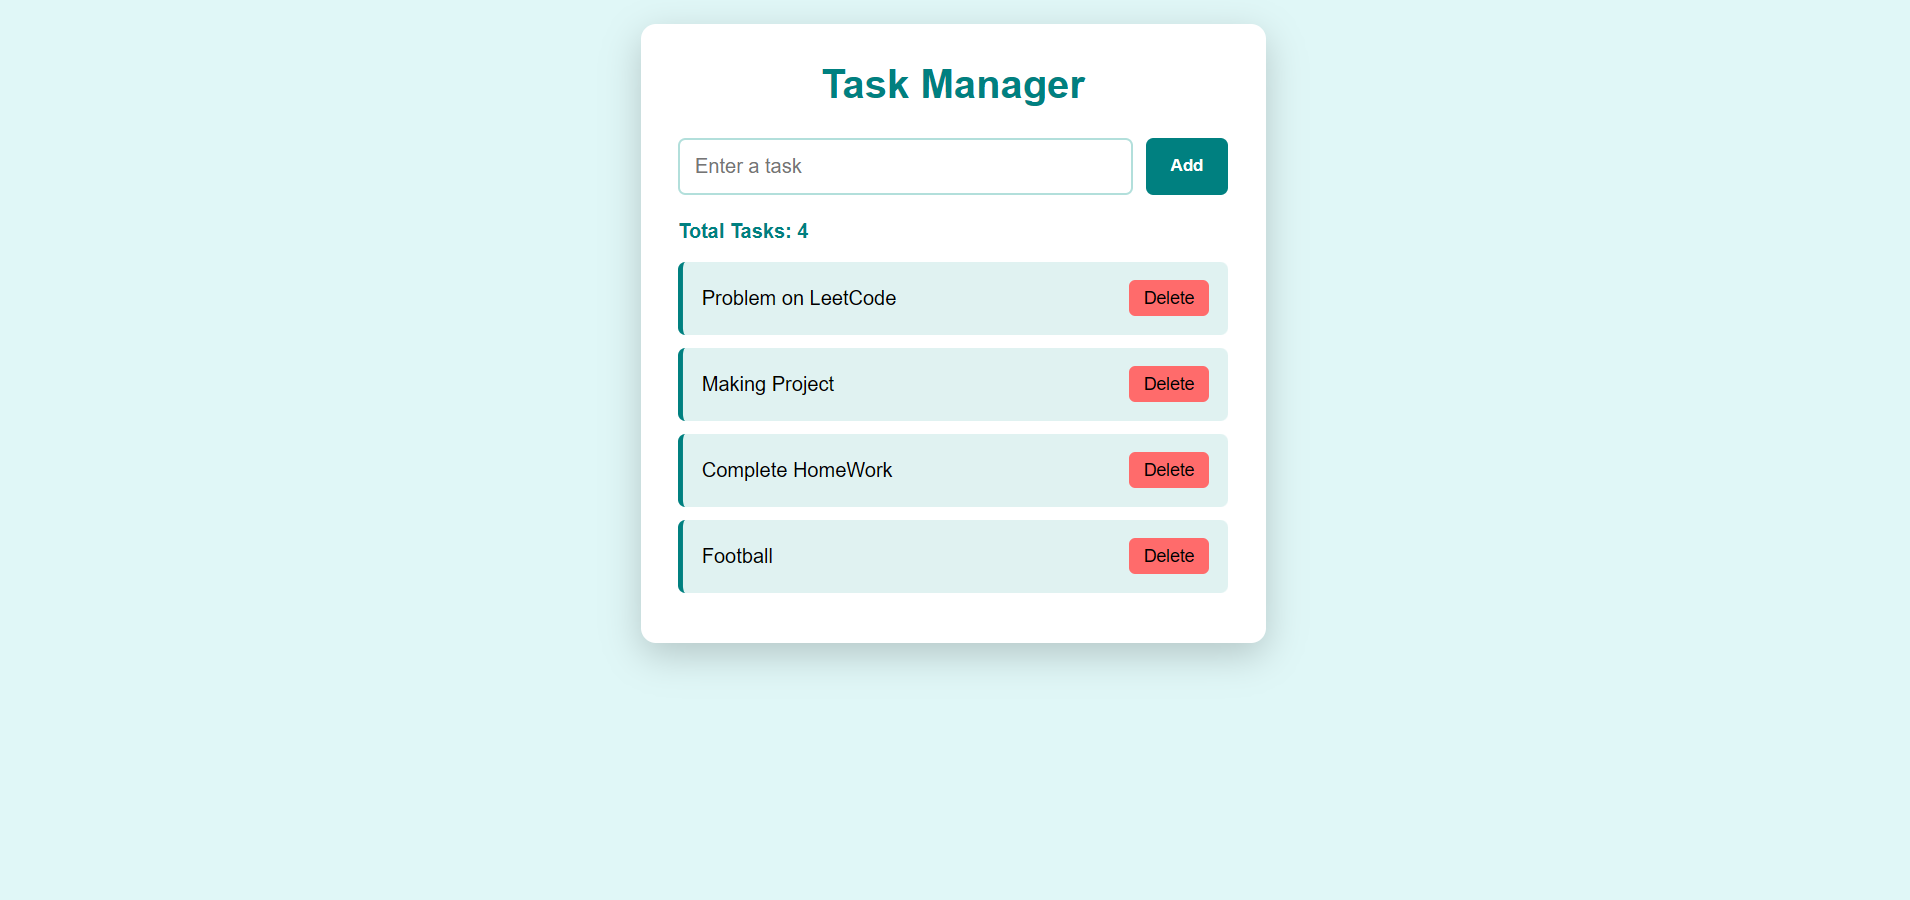
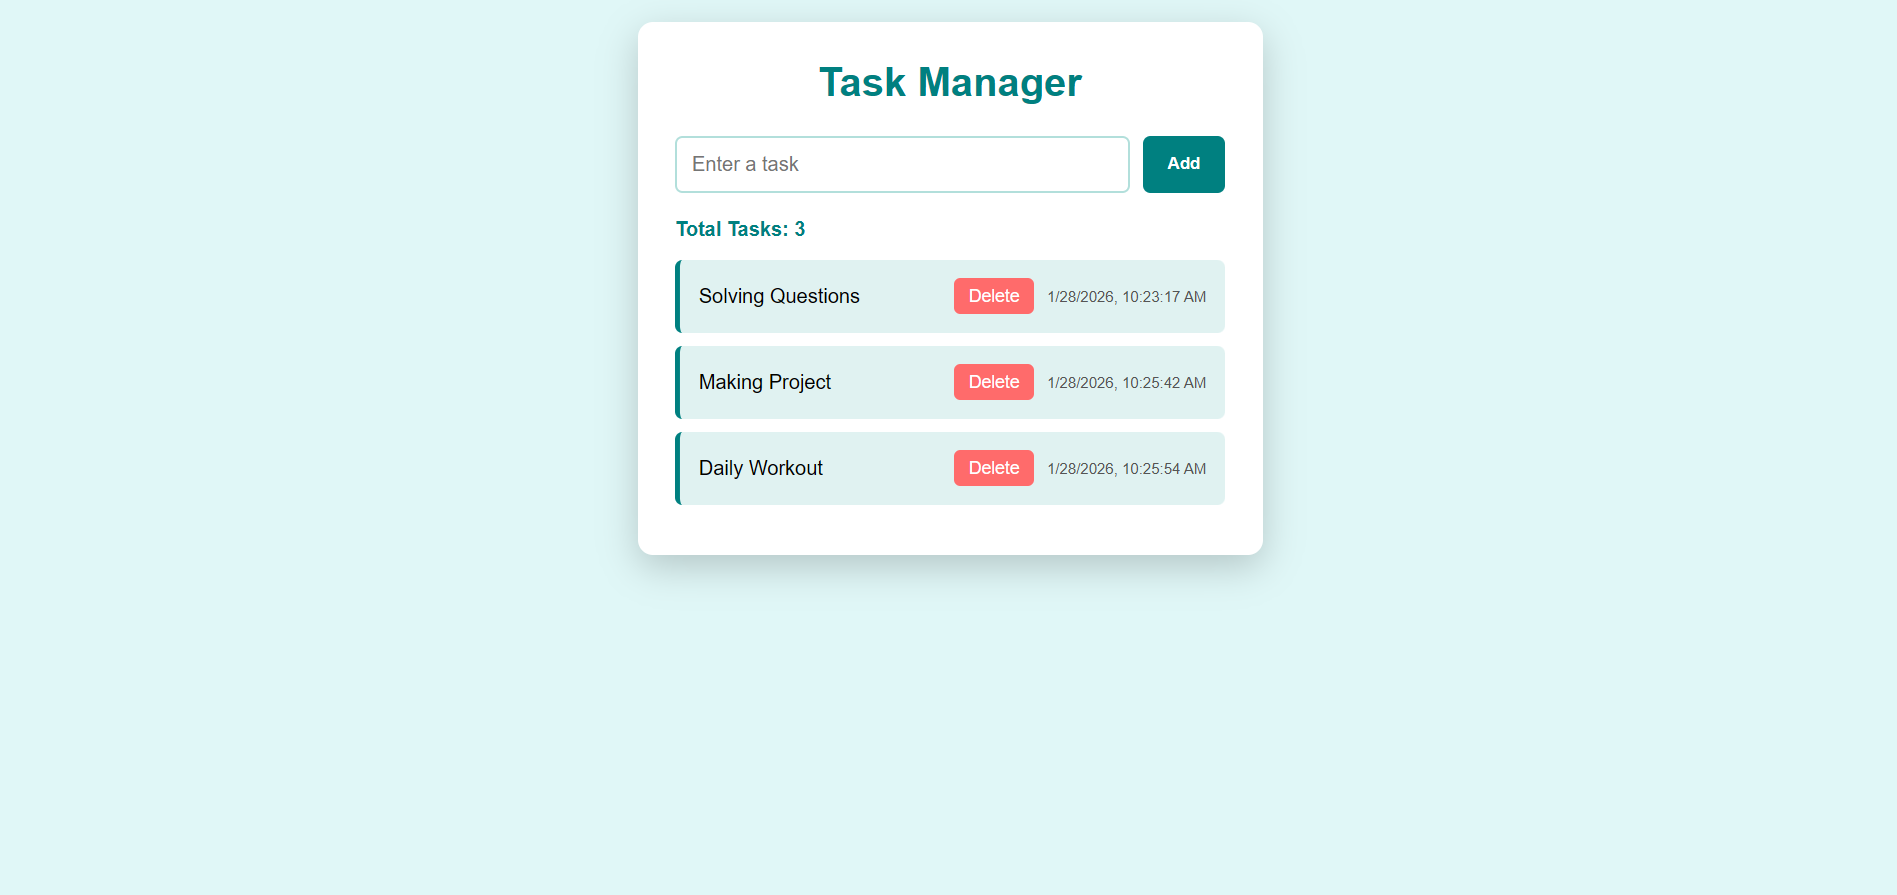
Update

diff --git a/index.html b/index.html
@@ -1,0 +1,341 @@
+<!DOCTYPE html>
+<html lang="en">
+
+<head>
+  <meta charset="UTF-8" />
+  <meta name="viewport" content="width=device-width, initial-scale=1.0" />
+  <title>Anshuman Varma | PEP Projects</title>
+  <link rel="preconnect" href="https://fonts.googleapis.com" />
+  <link rel="preconnect" href="https://fonts.gstatic.com" crossorigin />
+  <link
+    href="https://fonts.googleapis.com/css2?family=Space+Grotesk:wght@300;400;500;600;700&family=DM+Serif+Display&display=swap"
+    rel="stylesheet" />
+  <style>
+    :root {
+      --bg: #f7f2e9;
+      --ink: #1f1b16;
+      --muted: #5a5046;
+      --card: #ffffff;
+      --accent: #e07a5f;
+      --accent-2: #3d405b;
+      --shadow: rgba(31, 27, 22, 0.08);
+    }
+
+    * {
+      box-sizing: border-box;
+    }
+
+    body {
+      margin: 0;
+      font-family: "Space Grotesk", sans-serif;
+      color: var(--ink);
+      background:
+        radial-gradient(circle at 0% 0%, #ffe8cc 0%, transparent 40%),
+        radial-gradient(circle at 100% 100%, #e0e7ff 0%, transparent 40%),
+        var(--bg);
+      background-attachment: fixed;
+      line-height: 1.5;
+    }
+
+    .page {
+      max-width: 1200px;
+      margin: 0 auto;
+      padding: 80px 24px;
+    }
+
+    header {
+      margin-bottom: 60px;
+      text-align: left;
+    }
+
+    .eyebrow {
+      text-transform: uppercase;
+      letter-spacing: 0.3em;
+      font-weight: 700;
+      color: var(--accent);
+      font-size: 11px;
+      margin-bottom: 12px;
+    }
+
+    h1 {
+      font-family: "DM Serif Display", serif;
+      font-size: clamp(40px, 8vw, 72px);
+      margin: 0 0 16px 0;
+      line-height: 1;
+    }
+
+    .sub {
+      font-size: 18px;
+      color: var(--muted);
+      max-width: 550px;
+      font-weight: 400;
+    }
+
+    .grid {
+      display: grid;
+      grid-template-columns: repeat(auto-fill, minmax(280px, 1fr));
+      gap: 32px;
+    }
+
+    .card {
+      background: var(--card);
+      border: 1px solid var(--shadow);
+      border-radius: 24px;
+      overflow: hidden;
+      display: flex;
+      flex-direction: column;
+      transition: all 0.4s cubic-bezier(0.23, 1, 0.32, 1);
+      box-shadow: 0 10px 30px -10px rgba(0, 0, 0, 0.05);
+    }
+
+    .card:hover {
+      transform: translateY(-8px);
+      box-shadow: 0 20px 40px -15px rgba(0, 0, 0, 0.1);
+      border-color: var(--accent);
+    }
+
+    .thumb-wrapper {
+      position: relative;
+      overflow: hidden;
+      aspect-ratio: 16 / 10;
+      background: #eee;
+    }
+
+    .thumb {
+      width: 100%;
+      height: 100%;
+      object-fit: cover;
+      transition: transform 0.6s ease;
+    }
+
+    .card:hover .thumb {
+      transform: scale(1.05);
+    }
+
+    .card-body {
+      padding: 24px;
+      display: flex;
+      flex-direction: column;
+      flex-grow: 1;
+    }
+
+    .title {
+      font-weight: 700;
+      font-size: 20px;
+      margin: 0 0 8px 0;
+    }
+
+    .meta {
+      font-size: 15px;
+      color: var(--muted);
+      margin-bottom: 24px;
+      flex-grow: 1;
+      /* Pushes button to bottom */
+    }
+
+    .link {
+      display: inline-flex;
+      align-items: center;
+      justify-content: center;
+      gap: 10px;
+      padding: 12px 20px;
+      border-radius: 12px;
+      background: var(--accent-2);
+      color: #fff;
+      text-decoration: none;
+      font-weight: 600;
+      font-size: 14px;
+      transition: background 0.3s ease;
+    }
+
+    .link:hover {
+      background: var(--accent);
+    }
+
+    .link svg {
+      transition: transform 0.3s ease;
+    }
+
+    .link:hover svg {
+      transform: translateX(4px);
+    }
+
+    @media (max-width: 640px) {
+      .page {
+        padding: 48px 20px;
+      }
+
+      h1 {
+        font-size: 42px;
+      }
+    }
+  </style>
+</head>
+
+<body>
+
+  <div class="page">
+    <header>
+      <h1>Anshuman Varma</h1>
+      <p class="sub">PEP CLass Project</p>
+    </header>
+    <section class="grid">
+      <article class="card">
+        <div class="thumb-wrapper">
+          <img class="thumb" src="PROJECT1/image.png" alt="Project 1">
+        </div>
+        <div class="card-body">
+          <h2 class="title">Project 1</h2>
+          <a class="link" href="PROJECT1/index.html">View Project <svg width="18" height="18" viewBox="0 0 24 24"
+              fill="none" stroke="currentColor" stroke-width="2.5" stroke-linecap="round" stroke-linejoin="round">
+              <line x1="5" y1="12" x2="19" y2="12"></line>
+              <polyline points="12 5 19 12 12 19"></polyline>
+            </svg></a>
+        </div>
+      </article>
+
+      <article class="card">
+        <div class="thumb-wrapper">
+          <img class="thumb" src="PROJECT2/image.png" alt="Project 2">
+        </div>
+        <div class="card-body">
+          <h2 class="title">Project 2</h2>
+          <a class="link" href="PROJECT2/index.html">View Project <svg width="18" height="18" viewBox="0 0 24 24"
+              fill="none" stroke="currentColor" stroke-width="2.5" stroke-linecap="round" stroke-linejoin="round">
+              <line x1="5" y1="12" x2="19" y2="12"></line>
+              <polyline points="12 5 19 12 12 19"></polyline>
+            </svg></a>
+        </div>
+      </article>
+
+      <article class="card">
+        <div class="thumb-wrapper">
+          <img class="thumb" src="PROJECT3/image.png" alt="Project 3">
+        </div>
+        <div class="card-body">
+          <h2 class="title">Project 3</h2>
+          <a class="link" href="PROJECT3/index.html">View Project <svg width="18" height="18" viewBox="0 0 24 24"
+              fill="none" stroke="currentColor" stroke-width="2.5" stroke-linecap="round" stroke-linejoin="round">
+              <line x1="5" y1="12" x2="19" y2="12"></line>
+              <polyline points="12 5 19 12 12 19"></polyline>
+            </svg></a>
+        </div>
+      </article>
+
+      <article class="card">
+        <div class="thumb-wrapper">
+          <img class="thumb" src="PROJECT4/image.png" alt="Project 4">
+        </div>
+        <div class="card-body">
+          <h2 class="title">Project 4</h2>
+          <a class="link" href="PROJECT4/index.html">View Project <svg width="18" height="18" viewBox="0 0 24 24"
+              fill="none" stroke="currentColor" stroke-width="2.5" stroke-linecap="round" stroke-linejoin="round">
+              <line x1="5" y1="12" x2="19" y2="12"></line>
+              <polyline points="12 5 19 12 12 19"></polyline>
+            </svg></a>
+        </div>
+      </article>
+
+      <article class="card">
+        <div class="thumb-wrapper">
+          <img class="thumb" src="PROJECT5/image.png" alt="Project 5">
+        </div>
+        <div class="card-body">
+          <h2 class="title">Project 5</h2>
+          <a class="link" href="PROJECT5/index.html">View Project <svg width="18" height="18" viewBox="0 0 24 24"
+              fill="none" stroke="currentColor" stroke-width="2.5" stroke-linecap="round" stroke-linejoin="round">
+              <line x1="5" y1="12" x2="19" y2="12"></line>
+              <polyline points="12 5 19 12 12 19"></polyline>
+            </svg></a>
+        </div>
+      </article>
+
+      <article class="card">
+        <div class="thumb-wrapper">
+          <img class="thumb" src="PROJECT6/image.png" alt="Project 6">
+        </div>
+        <div class="card-body">
+          <h2 class="title">Project 6</h2>
+          <a class="link" href="PROJECT6/index.html">View Project <svg width="18" height="18" viewBox="0 0 24 24"
+              fill="none" stroke="currentColor" stroke-width="2.5" stroke-linecap="round" stroke-linejoin="round">
+              <line x1="5" y1="12" x2="19" y2="12"></line>
+              <polyline points="12 5 19 12 12 19"></polyline>
+            </svg></a>
+        </div>
+      </article>
+
+      <article class="card">
+        <div class="thumb-wrapper">
+          <img class="thumb" src="PROJECT7/image.png" alt="Project 7">
+        </div>
+        <div class="card-body">
+          <h2 class="title">Project 7</h2>
+          <a class="link" href="PROJECT7/index.html">View Project <svg width="18" height="18" viewBox="0 0 24 24"
+              fill="none" stroke="currentColor" stroke-width="2.5" stroke-linecap="round" stroke-linejoin="round">
+              <line x1="5" y1="12" x2="19" y2="12"></line>
+              <polyline points="12 5 19 12 12 19"></polyline>
+            </svg></a>
+        </div>
+      </article>
+
+      <article class="card">
+        <div class="thumb-wrapper">
+          <img class="thumb" src="PROJECT8/image.png" alt="Project 8">
+        </div>
+        <div class="card-body">
+          <h2 class="title">Project 8</h2>
+          <a class="link" href="PROJECT8/index.html">View Project <svg width="18" height="18" viewBox="0 0 24 24"
+              fill="none" stroke="currentColor" stroke-width="2.5" stroke-linecap="round" stroke-linejoin="round">
+              <line x1="5" y1="12" x2="19" y2="12"></line>
+              <polyline points="12 5 19 12 12 19"></polyline>
+            </svg></a>
+        </div>
+      </article>
+
+      <article class="card">
+        <div class="thumb-wrapper">
+          <img class="thumb" src="PROJECT9/image.png" alt="Project 9">
+        </div>
+        <div class="card-body">
+          <h2 class="title">Project 9</h2>
+          <a class="link" href="PROJECT9/index.html">View Project <svg width="18" height="18" viewBox="0 0 24 24"
+              fill="none" stroke="currentColor" stroke-width="2.5" stroke-linecap="round" stroke-linejoin="round">
+              <line x1="5" y1="12" x2="19" y2="12"></line>
+              <polyline points="12 5 19 12 12 19"></polyline>
+            </svg></a>
+        </div>
+      </article>
+
+      <article class="card">
+        <div class="thumb-wrapper">
+          <img class="thumb" src="PROJECT10/image.png" alt="Project 10">
+        </div>
+        <div class="card-body">
+          <h2 class="title">Project 10</h2>
+          <a class="link" href="PROJECT10/index.html">View Project <svg width="18" height="18" viewBox="0 0 24 24"
+              fill="none" stroke="currentColor" stroke-width="2.5" stroke-linecap="round" stroke-linejoin="round">
+              <line x1="5" y1="12" x2="19" y2="12"></line>
+              <polyline points="12 5 19 12 12 19"></polyline>
+            </svg></a>
+        </div>
+      </article>
+
+      <article class="card">
+        <div class="thumb-wrapper">
+          <img class="thumb" src="PROJECT11/image.png" alt="Project 11">
+        </div>
+        <div class="card-body">
+          <h2 class="title">Project 11</h2>
+          <a class="link" href="PROJECT11/index.html">View Project <svg width="18" height="18" viewBox="0 0 24 24"
+              fill="none" stroke="currentColor" stroke-width="2.5" stroke-linecap="round" stroke-linejoin="round">
+              <line x1="5" y1="12" x2="19" y2="12"></line>
+              <polyline points="12 5 19 12 12 19"></polyline>
+            </svg></a>
+        </div>
+      </article>
+    </section>
+  </div>
+
+</body>
+
+</html>
